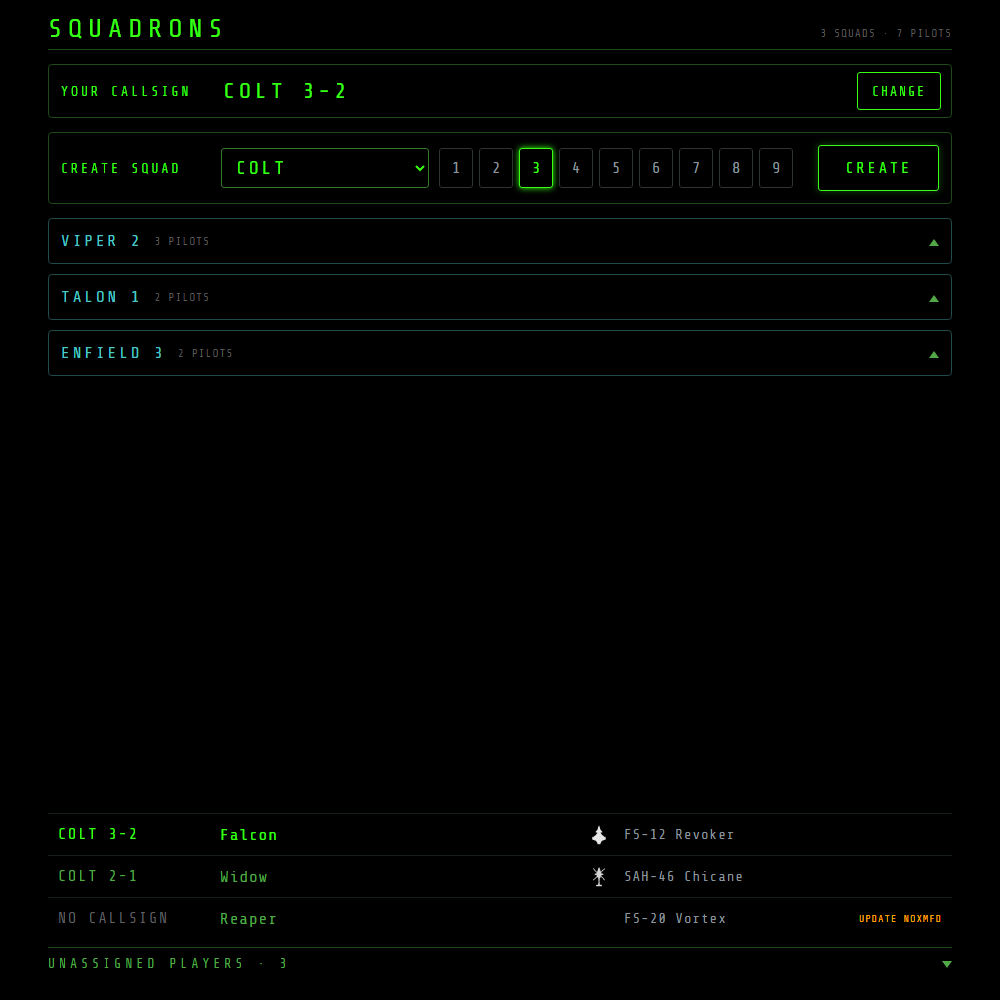
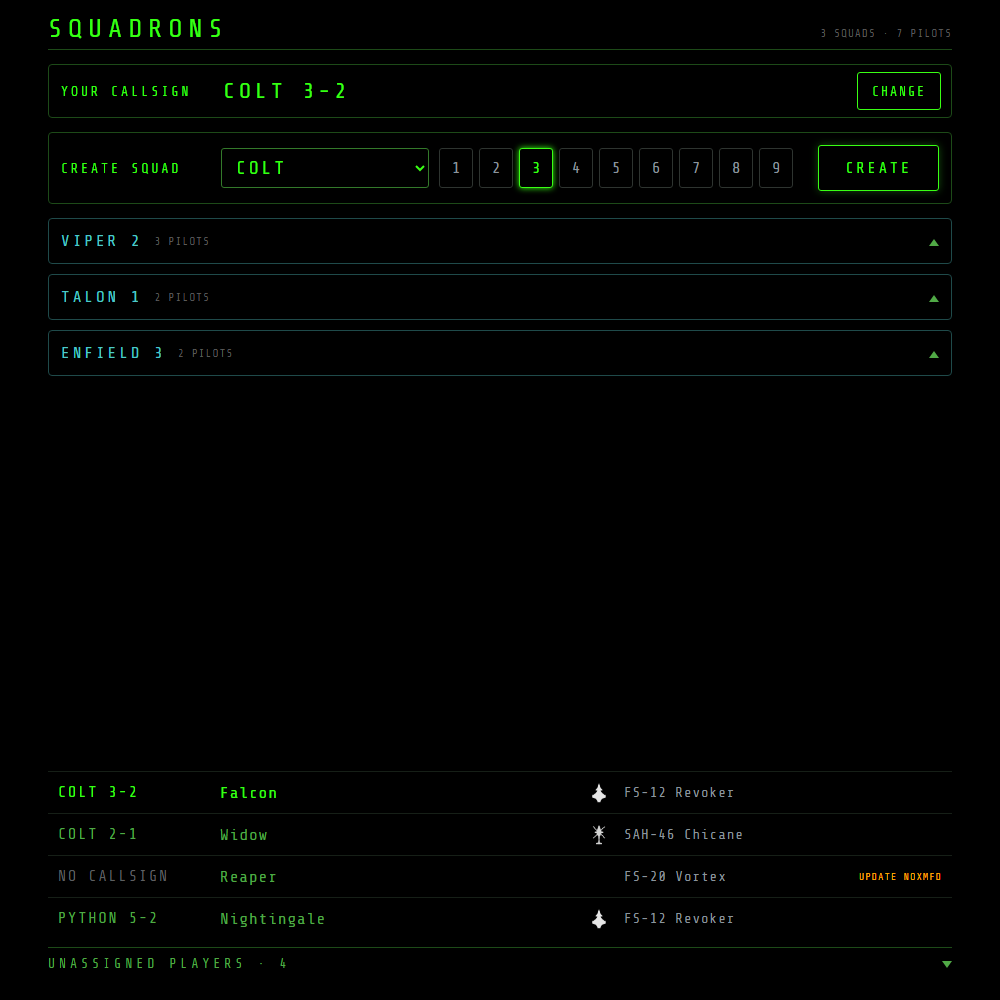
SQD manual: unassigned list, callsign and squad editors, other squads; new screenshots for SQD, TD and the TGT dock (issue 107)

diff --git a/tools/serve_web.py b/tools/serve_web.py
@@ -656,21 +656,23 @@ _SELF_CALLSIGN = {"callsign": "TALON", "flight": 1, "number": 1}
 _SERVER_PLAYERS = [
     {"id": "76561198000000005", "name": "Widow", "aircraft": "SAH-46 Chicane", "update": False},
     {"id": "76561198000000006", "name": "Reaper", "aircraft": "FS-20 Vortex", "update": True},
+    {"id": "76561198000000007", "name": "Nightingale", "aircraft": "FS-12 Revoker", "update": False},
 ]
-_SERVER_PLAYER_AIRCRAFT = {"Widow": "SAH-46 Chicane", "Reaper": "FS-20 Vortex"}
+_SERVER_PLAYER_AIRCRAFT = {"Widow": "SAH-46 Chicane", "Reaper": "FS-20 Vortex", "Nightingale": "FS-12 Revoker"}
 
 # SteamID -> (callsign, flight, number) for every pilot who has one. This pilot's own is added from
 # _SELF_CALLSIGN; Reaper has none (an older NOXMFD).
 _CALLSIGNS = {
     "76561198000000002": ("TALON", 1, 2),      # Foxtrot
     "76561198000000003": ("REAPER", 2, 1),     # Ghost: a TALON 1 member under another callsign
-    "76561198000000004": ("TALON", 1, 4),      # Havoc
+    "76561198000000004": ("TALON", 1, 4),      # Havoc: shares TALON 1-4 with brickwall
     "76561198000000005": ("COLT", 2, 1),       # Widow
+    "76561198000000007": ("PYTHON", 5, 2),     # Nightingale
     "76561198000000010": ("VIPER", 2, 1),      # DeckJockey
     "76561198000000011": ("VIPER", 2, 2),      # mav_rx
     "76561198000000012": ("VIPER", 2, 3),      # nightjar
     "76561198000000020": ("TALON", 1, 3),      # Hollowpoint
-    "76561198000000021": ("TALON", 1, 2),      # brickwall: shares TALON 1-2 with Foxtrot
+    "76561198000000021": ("TALON", 1, 4),      # brickwall: shares TALON 1-4 with Havoc
     "76561198000000030": ("ENFIELD", 3, 1),    # Ozone
     "76561198000000031": ("ENFIELD", 3, 2),    # Pixel_Pete
 }

diff --git a/man/sqd.md b/man/sqd.md
@@ -66,12 +66,14 @@ Afterwards it shows your callsign with **CHANGE**, which reopens the pickers; **
 you had. You can change it at any time, in or out of a squad. It is saved, so it survives a game
 restart, and everyone running NOXMFD sees it within a few seconds.
 
+![Changing your callsign](images/SQD_CALLSIGN_CHANGE.png)
+
 - Without a callsign you show under your Steam name, and **CREATE** and **ACCEPT** stay disabled
   until you set one.
 - Joining or leaving a squad doesn't change your callsign.
 - Two pilots may fly the same callsign. Both then show an amber note, **ALSO FLOWN BY** on your own
-  row and **SAME CALLSIGN** on the other pilot's row, but nothing stops you. On comms, change a
-  number to keep them apart.
+  row and **SAME CALLSIGN** on the other pilot's row, in a squad, in another squad or in the
+  unassigned list, but nothing stops you. On comms, change a number to keep them apart.
 
 ## A squad's name
 
@@ -82,6 +84,10 @@ you.
 
 Two squads may fly the same name. Both then show an amber **SAME DESIGNATION** note, and the squad
 pickers mark that pair in amber, but nothing stops you from using it.
+
+Each row of a squad shows the pilot's own callsign, their Steam name, their aircraft, and at the end
+an amber note, the **LEADER** label or, for the leader viewing a member, the ⋮ button. Only your own
+squad has the CALLSIGN / PILOT / AIRCRAFT column titles.
 
 ## Start a squad
 
@@ -123,10 +129,13 @@ the order they joined, with you first. Each member's row has a **⋮** button th
 
 The menu closes when you click elsewhere, press Escape or pick an item.
 
-- **Invite** a pilot from the **UNASSIGNED PLAYERS** bar: open it and press **INVITE** on their row.
-  They show as *INVITED* until they answer; an invite can't be withdrawn.
-- **EDIT** opens the callsign and flight pickers in the header. **APPLY** renames the squad. Members
-  keep their own callsigns.
+- **Invite** a pilot from the **UNASSIGNED PLAYERS** bar: open it and press **INVITE** on their row
+  (see [Unassigned players](#unassigned-players)). They show as *INVITED* until they answer; an
+  invite can't be withdrawn.
+- **EDIT** opens the squad's callsign and flight pickers in the header. **APPLY** renames the squad,
+  **CANCEL** keeps its name. Members keep their own callsigns.
+
+  ![Renaming the squad](images/SQD_EDIT_SQUAD.png)
 - **DISBAND** ends the squad for every member.
 - **Share** routes and steer points from [WPT](wpt.md#squad-sharing), and hand targets to members
   from [TD](td.md), which appears on TGT's nav row while you lead a squad.
@@ -136,7 +145,8 @@ The menu closes when you click elsewhere, press Escape or pick an item.
 ![SQD page, squad member](images/SQD_MEMBER.png)
 
 As a member, you see your squad with your own row lit green and the leader marked **LEADER**. The
-header has only **LEAVE**. What the leader shares reaches you on your own pages:
+header has only **LEAVE**, and rows have no ⋮ button: only the leader promotes or kicks. What the
+leader shares reaches you on your own pages:
 
 - Shared routes and steer points appear on [WPT](wpt.md#squad-sharing) with ACCEPT/REJECT.
 - Targets the leader assigns you pop up on [TGT](tgt.md#squad-designations).
@@ -156,13 +166,28 @@ minutes, so restarting a mission doesn't break the squad.
 
 ## Other squads
 
+![Other squads, opened](images/SQD_OTHER_SQUADS.png)
+
 Every other squad in your faction is listed below your own, read-only. Each box starts collapsed
 with the squad's name and pilot count; open it to see each pilot's callsign, Steam name and aircraft,
 the leader first. You see them whether you're in a squad or not, so anyone coordinating several
 squads, such as an ATC controller, can read every callsign from one page.
 
-The UNASSIGNED PLAYERS bar lists the faction's NOXMFD pilots who aren't in any squad, you included
-while you're not in one, with their callsign, Steam name and aircraft.
+## Unassigned players
+
+![The unassigned list, as a leader](images/SQD_UNASSIGNED.png)
+
+The **UNASSIGNED PLAYERS** bar lists the faction's NOXMFD pilots who aren't in any squad, you
+included while you're not in one, with the same columns as a squad: callsign, Steam name and
+aircraft. The last column tells you what you can do with each pilot:
+
+| Shown | Meaning |
+|---|---|
+| **INVITE** | Press it to invite the pilot. Only a squad leader sees it. |
+| **INVITED** | You've invited them and they haven't answered yet. |
+| **UPDATE NOXMFD** | Their NOXMFD is too old to squad with this one. No INVITE. |
+| **SAME CALLSIGN** | Another pilot flies the same callsign. |
+| **NO CALLSIGN** (in the first column) | They haven't set one; you see their Steam name only. |
 
 ## Names in the game
 

diff --git a/man/tgt.md b/man/tgt.md
@@ -151,7 +151,7 @@ list, over the rows, and stays until you answer it:
 
 ![A leader's designation waiting at the bottom of TGT](images/TGT_TD_DOCK.png)
 
-- **`TALON 1-1 DESIGNATED 3`** says who sent it and how many targets. Tap it (**SHOW ▴**) to list
+- **`VIPER 2-1 DESIGNATED 6`** says who sent it (your leader's callsign) and how many targets. Tap it (**SHOW ▴**) to list
   their names, ranges and grid squares above the bar; tap again (**HIDE ▾**) to fold them away.
   Targets you already have are dimmed and marked **LISTED**.
 

diff --git a/docs/self-callsign.md b/docs/self-callsign.md
@@ -141,5 +141,3 @@ invited, and its invites are declined. Players still see each other's names and 
 - Promote and kick from the ⋮ menu; TD assignments reach the right member and follow SteamID when
   someone leaves.
 - An older client can't be invited and its invite to this one is declined.
-- `man/images/TD_SQD_LEADER.png` still shows the old slot labels; retake it with the classic bezel
-  harness.
